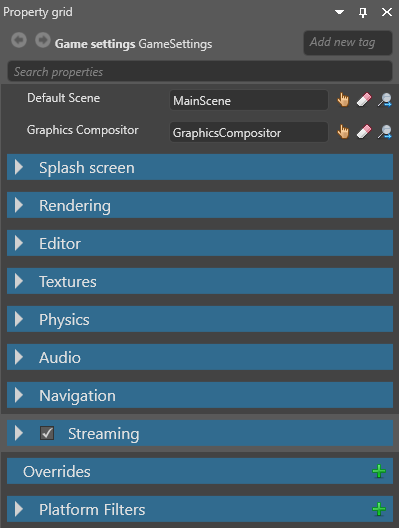
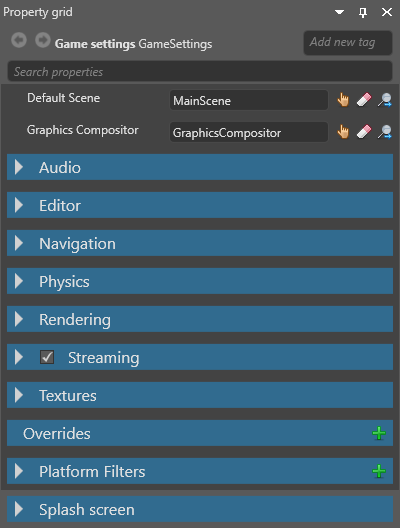
[Game settings] update with current order

diff --git a/en/manual/game-studio/game-settings.md b/en/manual/game-studio/game-settings.md
@@ -52,38 +52,15 @@ To set the graphics compositor:
 
 For more information, see [Graphics compositor](../graphics/graphics-compositor/index.md).
 
-## Splash screen
+## Audio
 
-The **splash screen** is displayed when your game starts. The default is the Xenko splash screen.
+![Audio settings](media/audio-settings.png)
 
-> [!Note]
-> The splash screen is only displayed when the game is built in release mode.
+| Property     | Description  
+|--------------|--------------
+| HRTF support | Enable HRTF audio. Note that only audio emitters with HRTF enabled will produce HRTF audio. For more details, see [HRTF](../audio/hrtf.md).
 
-![Settings](media/splash-screen.png)
-
-| Property | Description
-|----------|------------
-| Texture  | The image (eg company logo) displayed as the splash screen. By default, this is *XenkoDefaultSplashScreen*. 
-| Color    | The color the splash screen fades in on top of. By default, this is black  (*#FF000000*).
-
-For more information, see [Splash screen](/splash-screen.md).
-
-## Rendering
-
-![Rendering settings](media/rendering-settings.png)
-
-| Property                    | Description  
-|-----------------------------|----------------
-| Default back buffer width   | This might be overridden depending on the ratio and/or resolution of the device. On Windows, this is the window size. On Android/iOS, this is the off-screen target resolution.
-| Default back buffer height  | This might be overridden depending on the ratio and/or resolution of the device. On Windows, this is the window size. On Android/iOS, this is the off-screen target resolution.
-| Adapt back buffer to screen | Adapt the ratio of the back buffer to fit the screen ratio
-| Default graphics profile    | The graphics feature level required by the project
-| Color space                 | The color space (gamma or linear) used for rendering. This affects the game at runtime and how elements are displayed in Game Studio.
-| Display orientation         | The display orientation of the game (default, portrait, left landscape, or right landscape).
-| Target graphics platform    | The target platform Xenko builds the project for. If you set this to **Default**, Xenko chooses the most appropriate platform. For more information, see [Change the graphics platform](../platforms/change-the-graphics-platform.md).
-
-> [!Tip]
-> To check which default platform your project uses, add a break point to your code (eg in a script), run the project, and check the value of the [GraphicsDevice.Platform](xref:SiliconStudio.Xenko.Graphics.GraphicsDevice.Platform) variable.
+For more details about audio, see [Audio](../audio/index.md).
 
 ## Editor
 
@@ -98,34 +75,6 @@ The **editor** settings control how Game Studio displays entities in the scene e
 |---------------------|--------------
 | Rendering mode      | How Game Studio renders thumbnails and asset previews. 
 | Animation framerate | The framerate of animations shown in Game Studio. This doesn't affect animation data. 
-
-## Textures
-
-![Texture settings](media/texture-settings.png)
-
-| Property        | Description  
-|-----------------|--------------
-| Texture quality | The texture quality when encoding textures. **Fast** uses the least CPU, but has the lowest quality. Higher settings might result in slower builds, depending on the target platform. 
-
-## Physics
-
-![Physics settings](media/physics-settings.png)
-
-| Property        | Description         
-|-----------------|----------------
-| Flags           | **CollisionsOnly** disables [physics](../physics/index.md) except for collisions. For example, if this is enabled, objects aren't moved by gravity, but will still collide if you move them manually. **ContinuousCollisionDetection** prevents fast-moving entities erroneously moving through other entities. Note: other flags listed here currently aren't enabled in Xenko.
-| Max sub steps   | The maximum number of simulations the physics engine can run in a frame to compensate for slowdown.
-| Fixed time step | The length in seconds of a physics simulation frame. The default is 0.016667 (one sixtieth of a second). 
-
-## Audio
-
-![Audio settings](media/audio-settings.png)
-
-| Property     | Description  
-|--------------|--------------
-| HRTF support | Enable HRTF audio. Note that only audio emitters with HRTF enabled will produce HRTF audio. For more details, see [HRTF](../audio/hrtf.md).
-
-For more details about audio, see [Audio](../audio/index.md).
 
 ## Navigation
 
@@ -153,6 +102,33 @@ For more details, see [Dynamic navigation](dynamic-navigation.md).
 
 For more details, see [Navigation](navigation.md).
 
+## Physics
+
+![Physics settings](media/physics-settings.png)
+
+| Property        | Description         
+|-----------------|----------------
+| Flags           | **CollisionsOnly** disables [physics](../physics/index.md) except for collisions. For example, if this is enabled, objects aren't moved by gravity, but will still collide if you move them manually. **ContinuousCollisionDetection** prevents fast-moving entities erroneously moving through other entities. Note: other flags listed here currently aren't enabled in Xenko.
+| Max sub steps   | The maximum number of simulations the physics engine can run in a frame to compensate for slowdown.
+| Fixed time step | The length in seconds of a physics simulation frame. The default is 0.016667 (one sixtieth of a second). 
+
+## Rendering
+
+![Rendering settings](media/rendering-settings.png)
+
+| Property                    | Description  
+|-----------------------------|----------------
+| Default back buffer width   | This might be overridden depending on the ratio and/or resolution of the device. On Windows, this is the window size. On Android/iOS, this is the off-screen target resolution.
+| Default back buffer height  | This might be overridden depending on the ratio and/or resolution of the device. On Windows, this is the window size. On Android/iOS, this is the off-screen target resolution.
+| Adapt back buffer to screen | Adapt the ratio of the back buffer to fit the screen ratio
+| Default graphics profile    | The graphics feature level required by the project
+| Color space                 | The color space (gamma or linear) used for rendering. This affects the game at runtime and how elements are displayed in Game Studio.
+| Display orientation         | The display orientation of the game (default, portrait, left landscape, or right landscape).
+| Target graphics platform    | The target platform Xenko builds the project for. If you set this to **Default**, Xenko chooses the most appropriate platform. For more information, see [Change the graphics platform](../platforms/change-the-graphics-platform.md).
+
+> [!Tip]
+> To check which default platform your project uses, add a break point to your code (eg in a script), run the project, and check the value of the [GraphicsDevice.Platform](xref:SiliconStudio.Xenko.Graphics.GraphicsDevice.Platform) variable.
+
 ## Streaming
 
 ![Streaming settings](media/streaming-settings.png)
@@ -160,15 +136,23 @@ For more details, see [Navigation](navigation.md).
 | Property             | Description
 |----------------------|------------
 | Streaming            | Enable streaming
-| Update interval | How frequently Xenko updates the streaming
-| Max resources per update | The maximum number of textures updated per update. Higher numbers reduce pop-in but slow the framerate.
-| Resource timeout (milliseconds)| How long resources stay loaded after they're no longer used (after the **memory budget** is exceeded)
-| Memory budget (in MB) | When the memory used by streaming exceeds this budget, unused resources are removed
+| Update interval | How frequently Xenko updates the streaming. Smaller intervals mean the streaming system reacts faster, but use more CPU and cause more memory fluctuations.
+| Max resources per update | The maximum number of textures loaded or unloaded per streaming update. Higher numbers reduce pop-in but slow the framerate.
+| Resource timeout (millis)| How long resources stay loaded after they're no longer used (when the **memory budget** is exceeded)
+| Memory budget (in MB) | When the memory used by streaming exceeds this budget, Xenko unloads unused textures. You can increase this to keep more textures loaded when you have memory to spare, and vice versa.
 
 >[!Note]
 >Currently, only textures can be streamed.
 
 For more details, see [Streaming](../textures/streaming.md).
+
+## Textures
+
+![Texture settings](media/texture-settings.png)
+
+| Property        | Description  
+|-----------------|--------------
+| Texture quality | The texture quality when encoding textures. **Fast** uses the least CPU, but has the lowest quality. Higher settings might result in slower builds, depending on the target platform. 
 
 ## Overrides
 
@@ -216,12 +200,28 @@ You can choose items in the **Platform Filters** list as a specific platform fil
 
     ![Type platform filter](media/add-platform-filter-name.png)
 
-After you add a platform filter, you can select it as a **specific filter** under **Overrides**.
+After you add a platform filter, you can select it under **Override > Specific filter**.
 
 ![Override](media/new-GPU-in-override-list.png)
 
 >[!Note]
 >If the new filter isn't listed, remove the override and re-add it.
+
+## Splash screen
+
+The **splash screen** is displayed when your game starts. The default is the Xenko splash screen.
+
+> [!Note]
+> The splash screen is only displayed when the game is built in release mode.
+
+![Settings](media/splash-screen.png)
+
+| Property | Description
+|----------|------------
+| Texture  | The image (eg company logo) displayed as the splash screen. By default, this is *XenkoDefaultSplashScreen*. 
+| Color    | The color the splash screen fades in on top of. By default, this is black  (*#FF000000*).
+
+For more information, see [Splash screen](/splash-screen.md).
 
 ## See also
 

diff --git a/en/manual/graphics/textures/streaming.md b/en/manual/graphics/textures/streaming.md
@@ -11,9 +11,9 @@ As games typically contain lots of textures, it's usually better to **stream** t
 
 ## How Xenko streams textures
 
-When streaming is enabled on a texture, Xenko only loads it when it's rendered in the scene.
+Instead of loading a texture when Xenko loads the scene (with all its mipmaps), Xenko only loads it when it's used (eg a model using the texture is onscreen). 
 
-When the texture is no longer needed, Xenko unloads it after a time you specify in the global streaming settings.
+When the texture is no longer needed (ie no objects that use the texture are onscreen), Xenko unloads it.
 
 Currently, there's no loading priority for textures. For example, Xenko doesn't load textures based on distance; instead, Xenko loads them all in sequence.
 
@@ -60,17 +60,23 @@ For instructions about how to access the global streaming settings, see the [Gam
 | Property             | Description
 |----------------------|------------
 | Streaming            | Enable streaming
-| Update interval | How frequently Xenko updates the streaming
-| Max resources per update | The maximum number of textures updated per update. Higher numbers reduce pop-in but slow the framerate.
-| Resource timeout (milliseconds)| How long resources stay loaded after they're no longer used (after the **memory budget** is exceeded)
-| Memory budget (in MB) | When the memory used by streaming exceeds this budget, unused resources are removed
+| Update interval | How frequently Xenko updates the streaming. Smaller intervals mean the streaming system reacts faster, but use more CPU and cause more memory fluctuations.
+| Max resources per update | The maximum number of textures loaded or unloaded per streaming update. Higher numbers reduce pop-in but slow the framerate.
+| Resource timeout (millis)| How long resources stay loaded after they're no longer used (when the **memory budget** is exceeded)
+| Memory budget (in MB) | When the memory used by streaming exceeds this budget, Xenko removes unused textures. You can use this to keep textures loaded when you have memory to spare.
 
 ## Control streaming in code
 
-To disable streaming for a single texture:
+### Disable streaming for a single texture:
 
 ```cs
 var texture = Content.Load<Texture>("myTexture", ContentManagerLoaderSettings.StreamingDisabled);
+```
+
+### Disable streaming globally
+
+```cs
+((Game)Game).Streaming.DisableStreaming = true;
 ```
 
 ### Access the streaming manager
@@ -89,13 +95,13 @@ To start streaming a texture, use:
 Streaming.StreamResources(myTexture);
 ```
 
-### StreamingOptions
+### `StreamingOptions`
 
 There are three [StreamingOptions](xref:SiliconStudio.Xenko.Streaming.StreamingOptions):
 
 #### KeepLoaded
 
-The `KeepLoaded` option keeps the texture in memory even if the memory budget is exceeded.
+The `KeepLoaded` option keeps the texture in memory even when the memory budget is exceeded.
 
 For example:
 
@@ -104,21 +110,13 @@ var myOptions = new StreamingOptions() { KeepLoaded = true };
 Streaming.StreamResources(myTexture, myOptions);
 ```
 
-#### Change the StreamingOptions at runtime
+#### Change the `StreamingOptions` at runtime
 
 Use `SetResourceStreamingOptions`. For example:
 
 ```cs
 var myNewOptions = new StreamingOptions() { KeepLoaded = false };
 Streaming.SetResourceStreamingOptions(myTexture, myNewOptions);
-```
-
-#### Disable streaming globally
-
-Use:
-
-```cs
-((Game)Game).Streaming.DisableStreaming = true;
 ```
 
 ## See also

diff --git a/en/manual/graphics/textures/index.md b/en/manual/graphics/textures/index.md
@@ -66,7 +66,7 @@ The following properties are common to all textures.
 | Width            | The width of the texture in-game
 | Height           | The height of the texture in-game
 | Type             | Use **Color** for textures you want to display as images, **Normal map** for normal maps, and **Grayscale** to provide values for other things (eg specular maps, metalness maps, roughness maps). Color textures and normal maps have additional properties (see below).
-| Generate mipmaps | Generate different versions of the texture at different resolutions to be displayed at different distances. Improves performance and removes visual artifacts, but uses more memory. Unnecessary for textures always at the same distance from the camera (such as UIs).
+| Generate mipmaps | Generate different versions of the texture at different resolutions to be displayed at different distances. Improves performance, removes visual artifacts, and reduces pop-in when using **streaming**, but uses more memory. Unnecessary for textures always at the same distance from the camera (such as UIs).
 | Compress         | Compress the final texture to a format based on the target platform and usage. The final texture is a multiple of 4. For more information, see [Texture compression](compression.md).
 | Stream         | Stream the texture dynamically at runtime. This improves performance and scene loading times. Not recommended for important textures you always want to be loaded, such as splash screens. For more information, see [Streaming](streaming.md).
 
